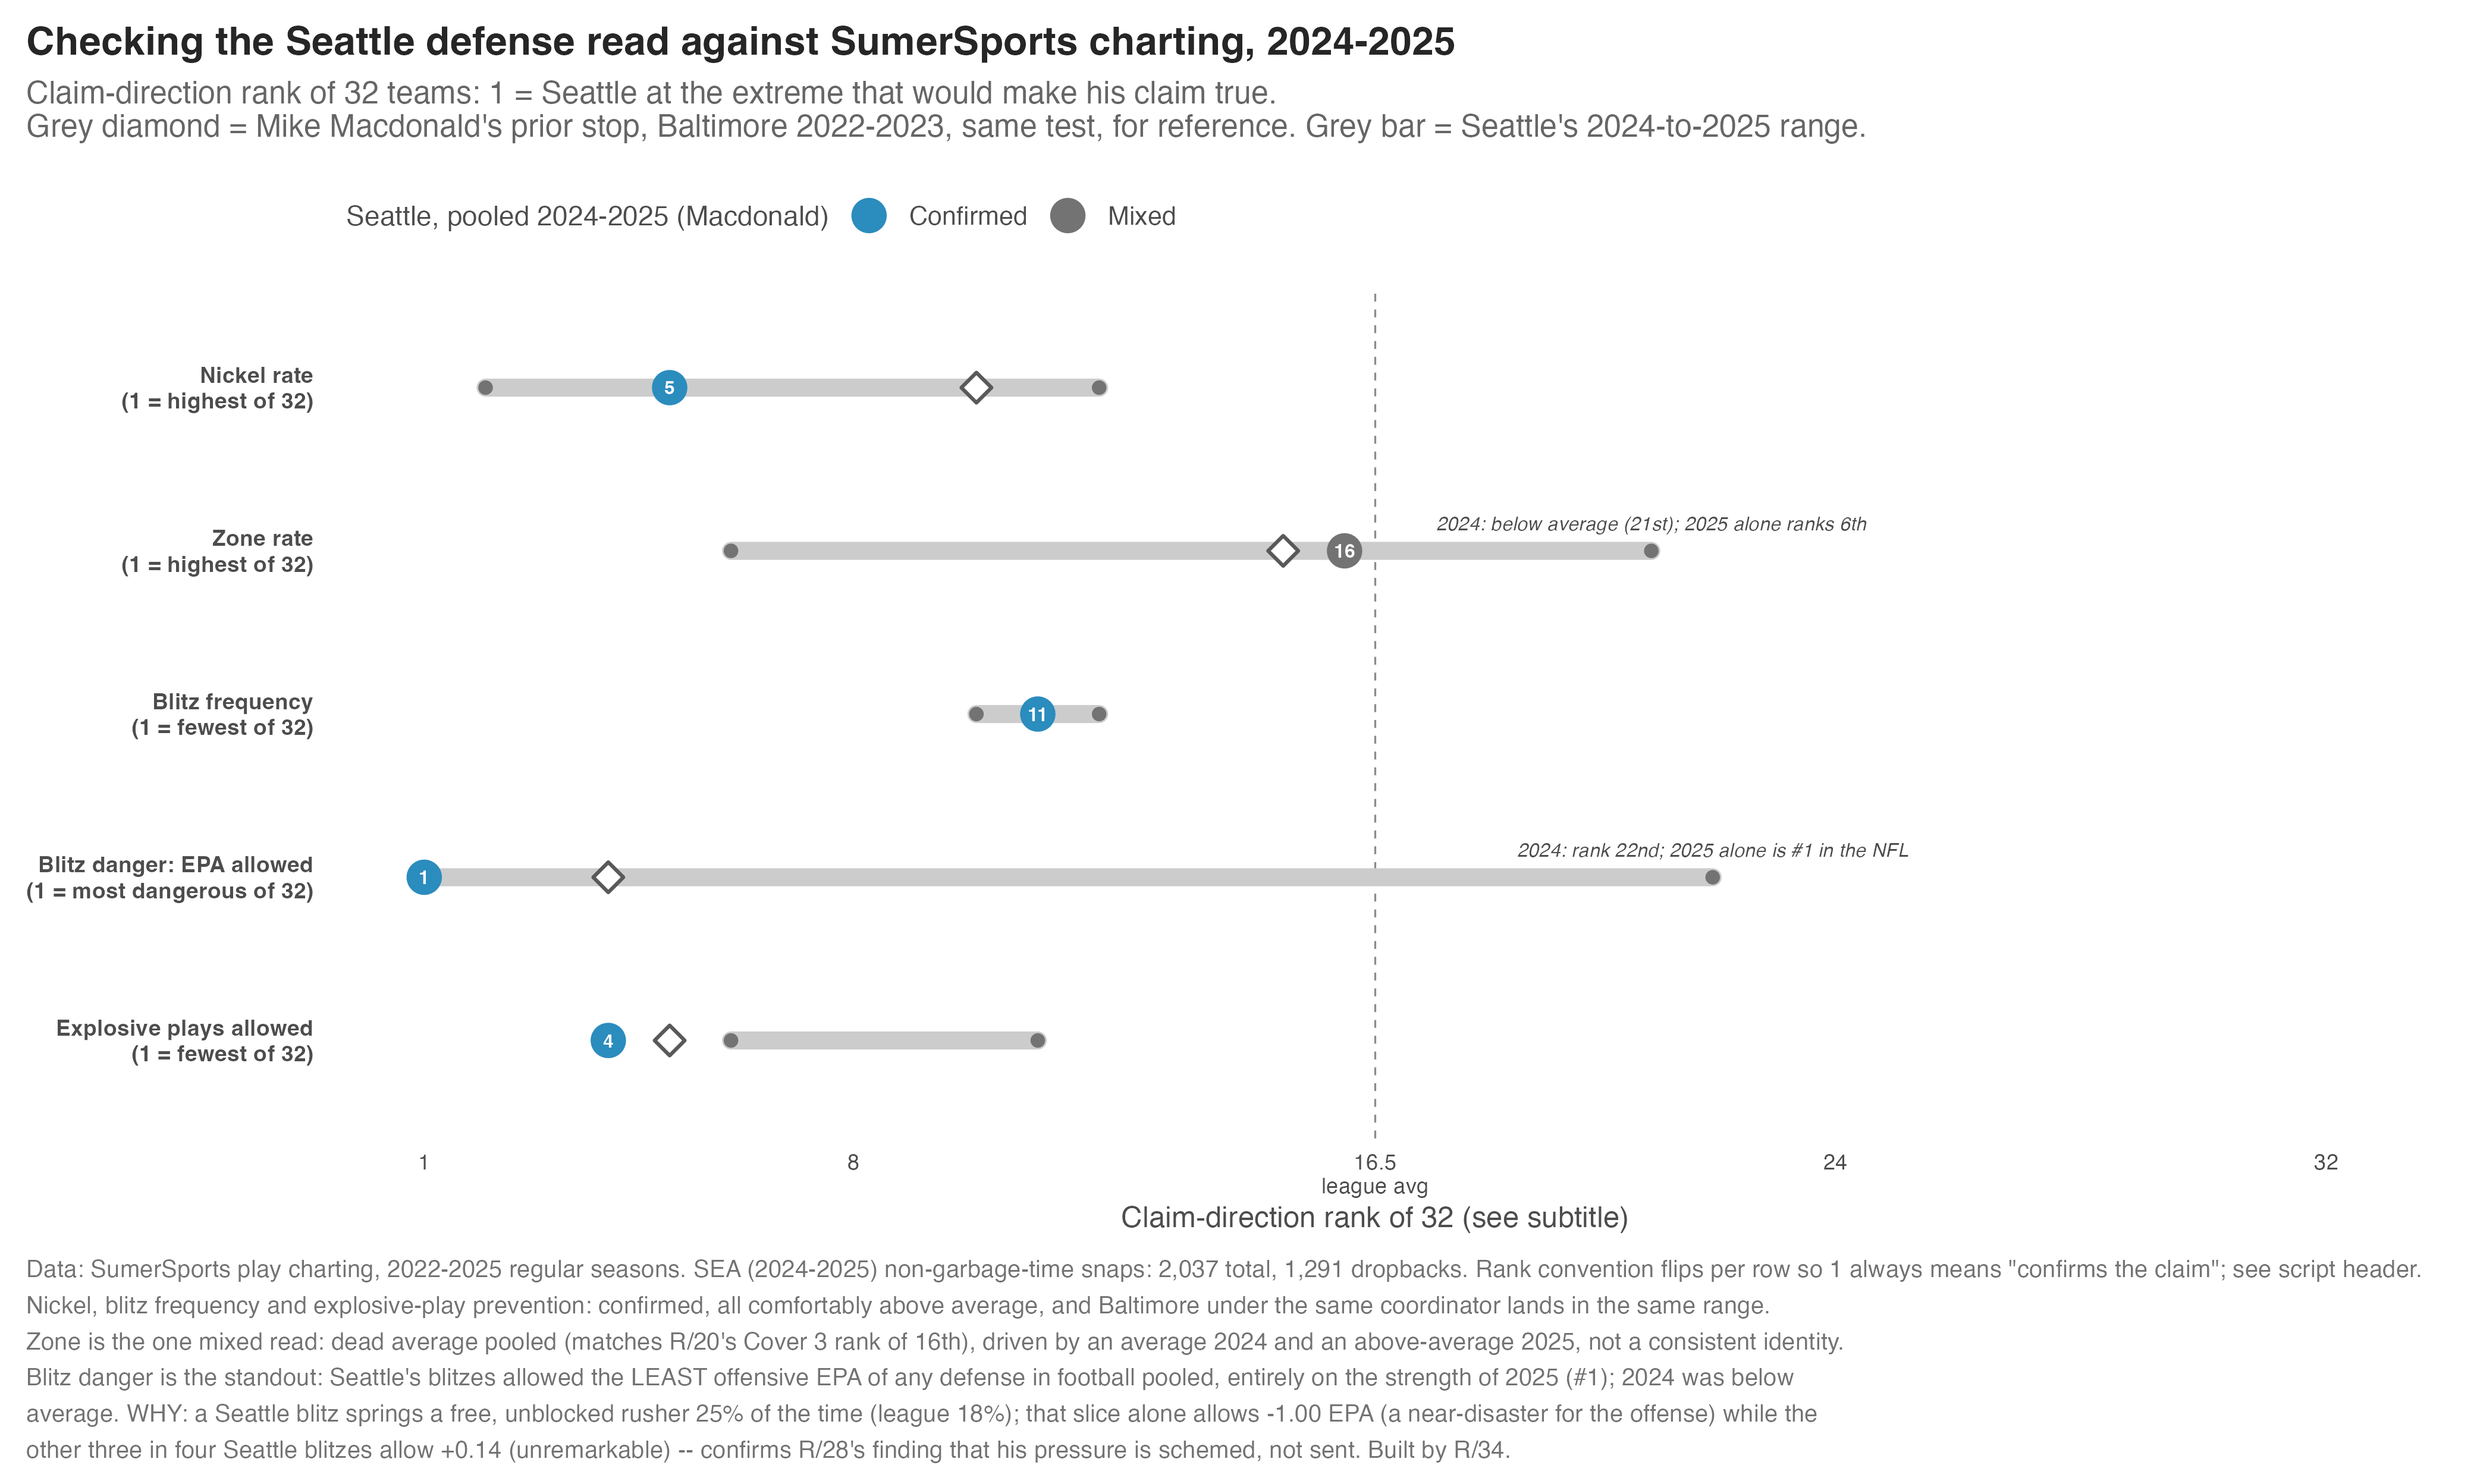
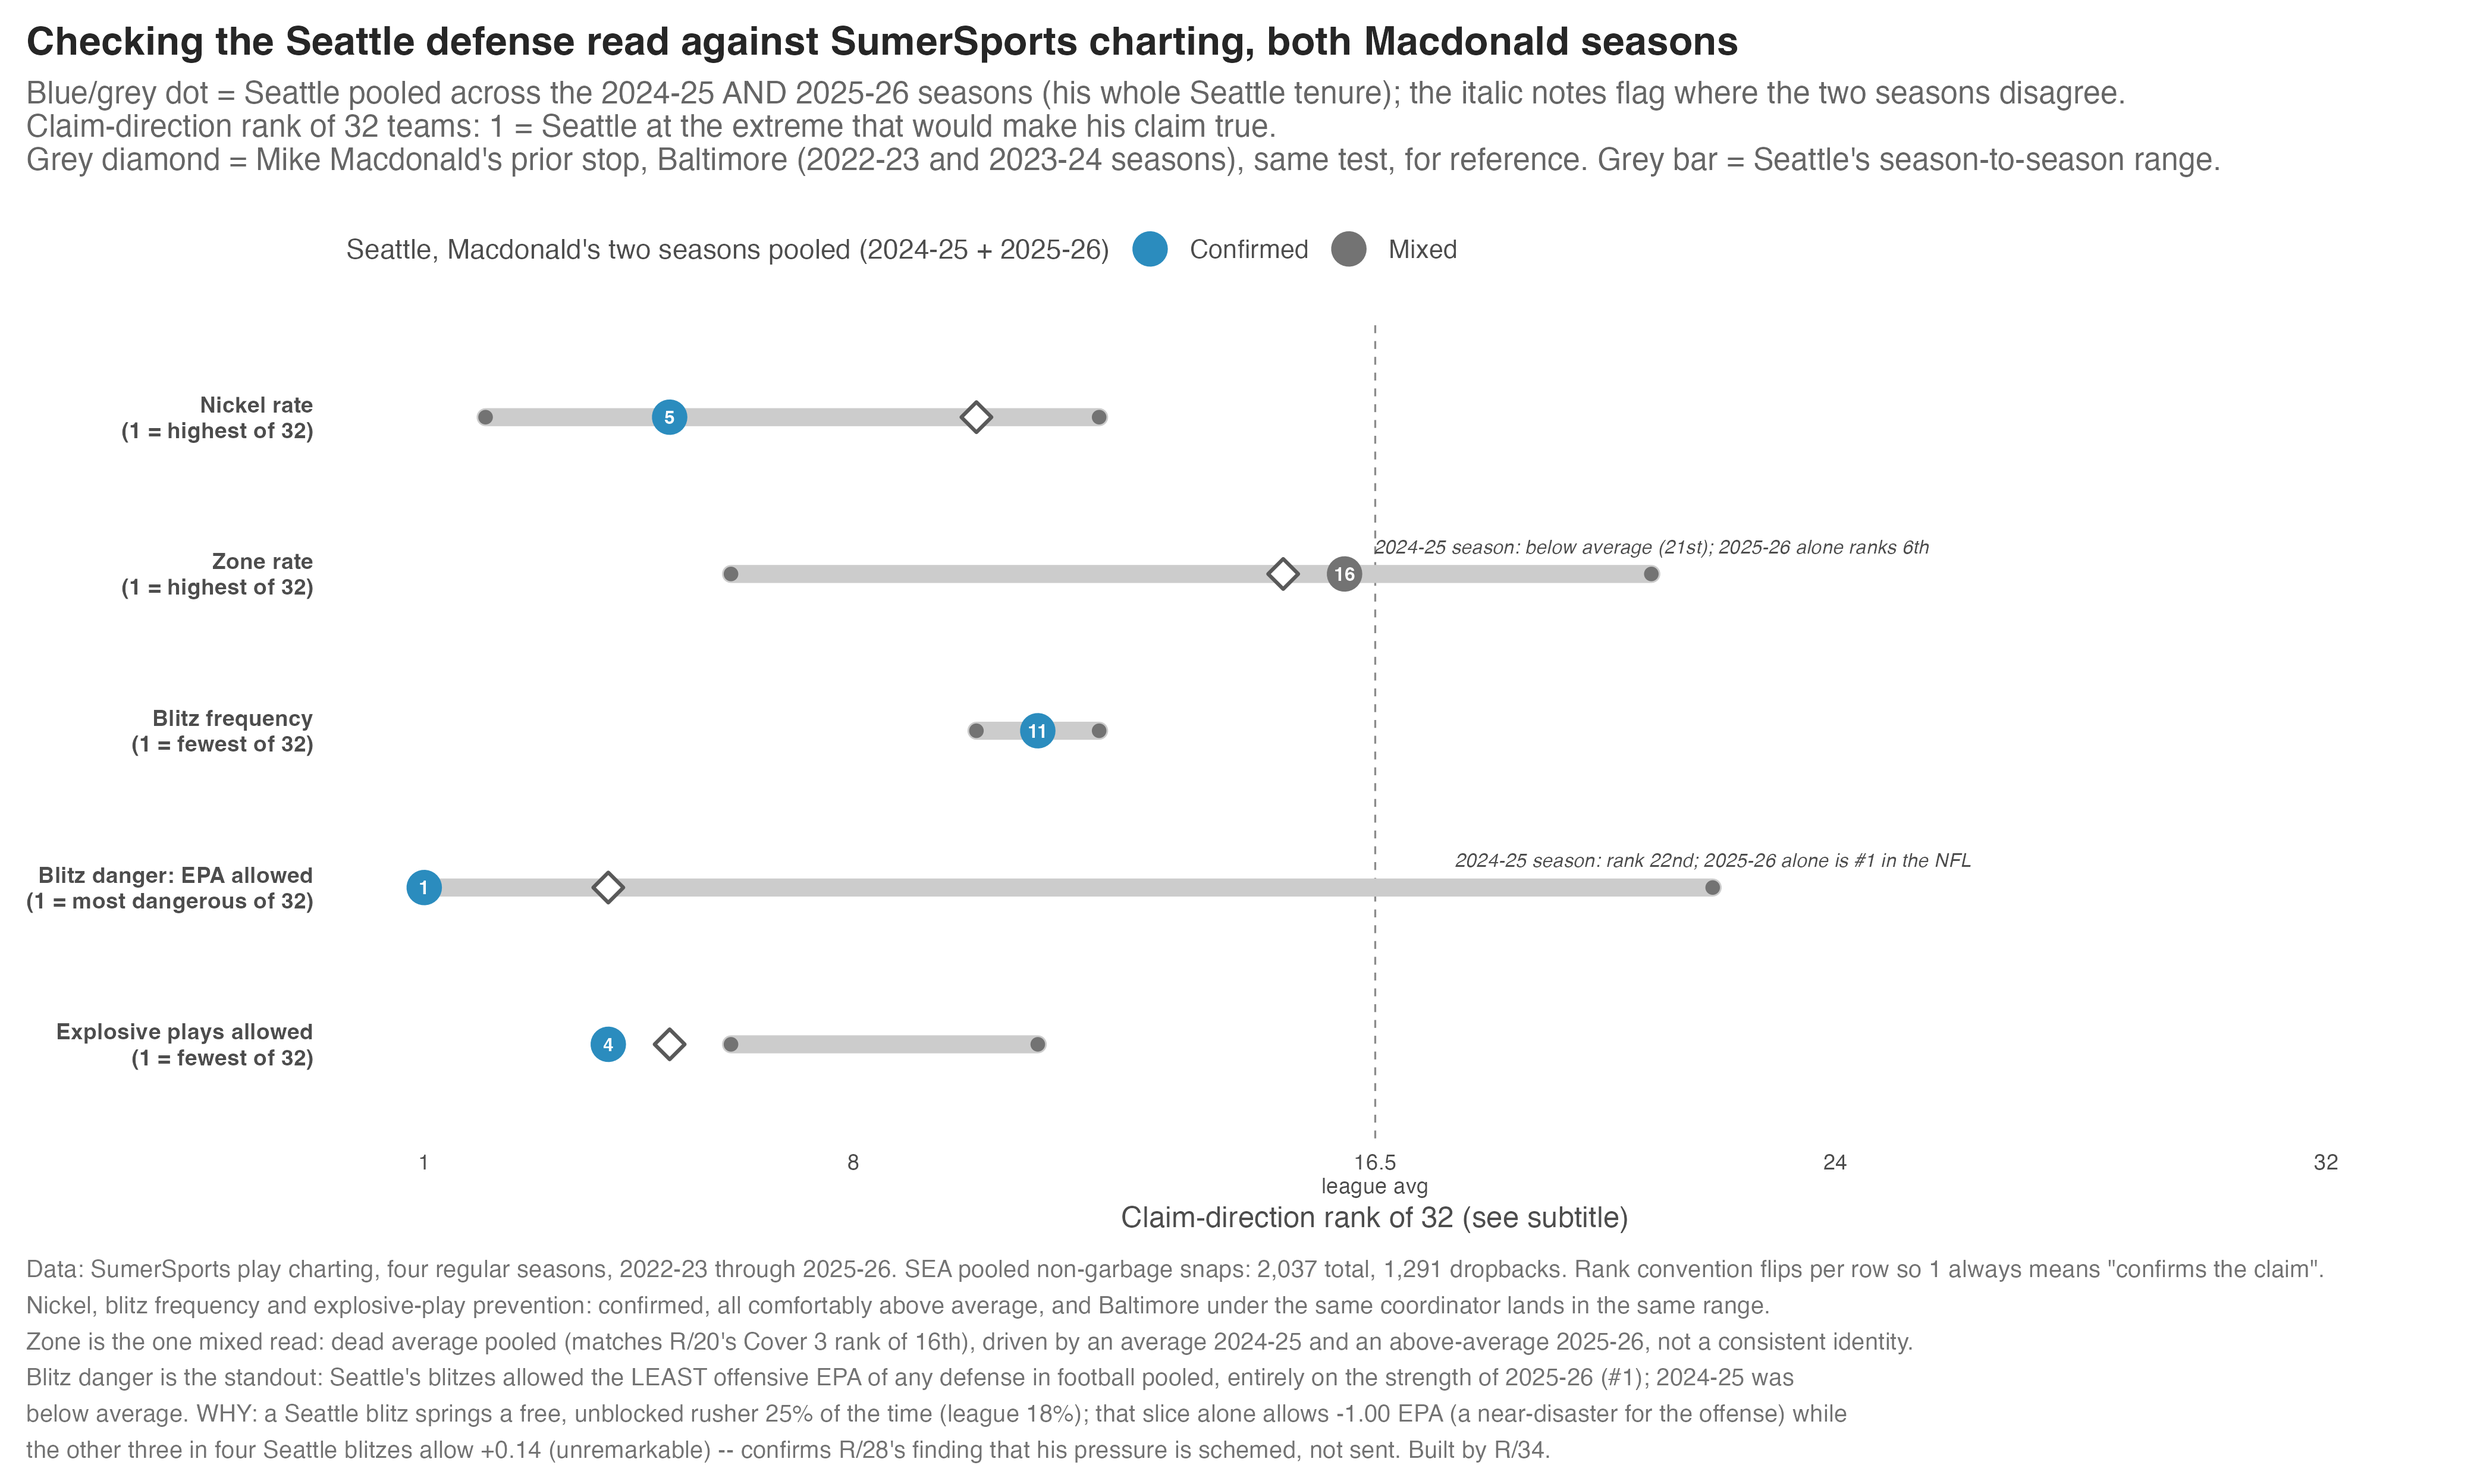
Battery chart: season-span labels (2024-25 + 2025-26) after the pooled window was misread as one season

diff --git a/docs/outline.html b/docs/outline.html
@@ -46,7 +46,7 @@ footer{border-top:1px solid var(--line);margin-top:60px;padding-top:18px;font-si
 <figure><img src="figures/free_rushers.png" alt="Coordinators by won-rush pressure against schemed unblocked pressure, Macdonald near the top of the scheme axis"><figcaption>Where the pressure comes from: scheme vs the front. Built by R/28.</figcaption></figure>
 <p class="note">Michael: <i>"Where did the Hawks rank in all that?"</i> One ledger: at or near first at beating every roster meter (1st above pedigree, 1st above payroll, 2nd above Madden, 3rd against the market; Macdonald&rsquo;s career market rate 3rd of 157), scheme-pressure elite while blitzing bottom-third, and honestly mid-pack at exactly one thing, halftime adjustment.</p>
 <figure><img src="figures/hawks_ledger.png" alt="Sixteen-row ledger of every Seattle and Macdonald rank on the board"><figcaption>Every rank in one place, non-compliments included. Built by R/29.</figcaption></figure>
-<p class="note">The Seattle defense read, checked claim by claim: nickel <b>confirmed</b> (73.6%, 5th of 32; 2nd in 2025), low blitz <b>confirmed</b> (11th-fewest, same rank at Baltimore), explosives <b>confirmed</b> (4th-fewest allowed; 27th both years before he arrived), zone honestly <b>mixed</b> (dead-average pooled, above average only in 2025, shell variety rather than one look). The standout: Seattle allowed the <b>least EPA per blitz in the NFL</b> 2024-2025, and the mechanism closes exactly: 1 in 4 of his blitzes springs an unblocked rusher (45% above league), those plays run about <b>-1.0 EPA</b> for the offense, and the other three quarters are ordinary. The blitz is not the weapon; the free rusher inside it is.</p>
+<p class="note">The Seattle defense read, checked claim by claim: nickel <b>confirmed</b> (73.6%, 5th of 32; 2nd in 2025-26), low blitz <b>confirmed</b> (11th-fewest, same rank at Baltimore), explosives <b>confirmed</b> (4th-fewest allowed; 27th both years before he arrived), zone honestly <b>mixed</b> (dead-average pooled, above average only in 2025-26, shell variety rather than one look). The standout: Seattle allowed the <b>least EPA per blitz in the NFL</b> across his two Seattle seasons pooled, and the mechanism closes exactly: 1 in 4 of his blitzes springs an unblocked rusher (45% above league), those plays run about <b>-1.0 EPA</b> for the offense, and the other three quarters are ordinary. The blitz is not the weapon; the free rusher inside it is.</p>
 <figure><img src="figures/sea_defense_battery.png" alt="Four Seattle defense claims verified on one axis with Baltimore context diamonds and blitz danger ranked first of 32"><figcaption>The four claims, one axis, mechanism in the caption. Built by R/34.</figcaption></figure>
 <figure><img src="figures/blitz_rate_danger.png" alt="Coordinators placed by blitz rate against EPA allowed per blitz, Macdonald deep in the rare-but-dangerous corner"><figcaption>The second chart, as asked: volume against payoff, uncorrelated across the league (r = 0.04); his corner is his own. Built by R/37.</figcaption></figure></section>
 <section><h3>Have coordinators decreased in age? How much? Offense? Defense?</h3><figure><img src="figures/factory/coordinator_age.png" alt="Average age of offensive and defensive play-callers by season, 1999 to 2025"><figcaption>Offense drifts down all window. Defense got older to a peak of 53.9 in 2019, then fell to 47.6.</figcaption></figure></section>

diff --git a/docs/index.html b/docs/index.html
@@ -371,7 +371,7 @@
     <div class="card">
       <div class="card-head"><span class="t">The Seattle defense read, checked claim by claim</span><span class="pill ship">Three confirmed, one honestly mixed</span></div>
       <p class="row"><span class="lab">Michael:</span> "Wait so how often did they run nickel vs. the rest of the league? Lol" ... "he runs a LOT of zone coverage" ... "He doesn't really blitz that much but when they do they are pretty dangerous" ... "I bet they didn't allow a lot of explosive plays. Might be the best in that category or close"</p>
-      <p class="row found"><span class="lab">Nickel: confirmed, a lot.</span> 73.6% of snaps, 5th of 32, and 2nd in the league in 2025; Baltimore under the same man was top-ten too. <span class="lab">Blitz rate: confirmed low,</span> 11th-fewest, the identical rank at both his stops. <span class="lab">Explosives: confirmed,</span> 4th-fewest allowed, and the turnaround dates precisely to his arrival: Seattle ranked 27th both years before him. <span class="lab">Zone is the one that stays honest:</span> dead-average 16th pooled, above average only in 2025, and the character is shell variety across four coverages rather than one dominant look. <span class="lab">And "dangerous when they do" is the standout:</span> Seattle allowed the least EPA per blitz in the NFL over 2024-2025, better on blitz downs than non-blitz downs, though nearly all of it is 2025.</p>
+      <p class="row found"><span class="lab">Nickel: confirmed, a lot.</span> 73.6% of snaps, 5th of 32, and 2nd in the league in 2025-26; Baltimore under the same man was top-ten too. <span class="lab">Blitz rate: confirmed low,</span> 11th-fewest, the identical rank at both his stops. <span class="lab">Explosives: confirmed,</span> 4th-fewest allowed, and the turnaround dates precisely to his arrival: Seattle ranked 27th both years before him. <span class="lab">Zone is the one that stays honest:</span> dead-average 16th pooled, above average only in 2025-26, and the character is shell variety across four coverages rather than one dominant look. <span class="lab">And "dangerous when they do" is the standout:</span> Seattle allowed the least EPA per blitz in the NFL across his two seasons pooled, better on blitz downs than non-blitz downs, though nearly all of it is 2025-26.</p>
       <figure>
         <img src="figures/sea_defense_battery.png" alt="Verification chart of the four Seattle defense claims with three confirmed, zone mixed, Baltimore context diamonds, and the blitz-danger row ranked first of 32.">
         <figcaption>Four claims, one axis where rank 1 means the claim is most true, with Baltimore under the same coordinator as the reference diamonds. Built by R/34.</figcaption>
